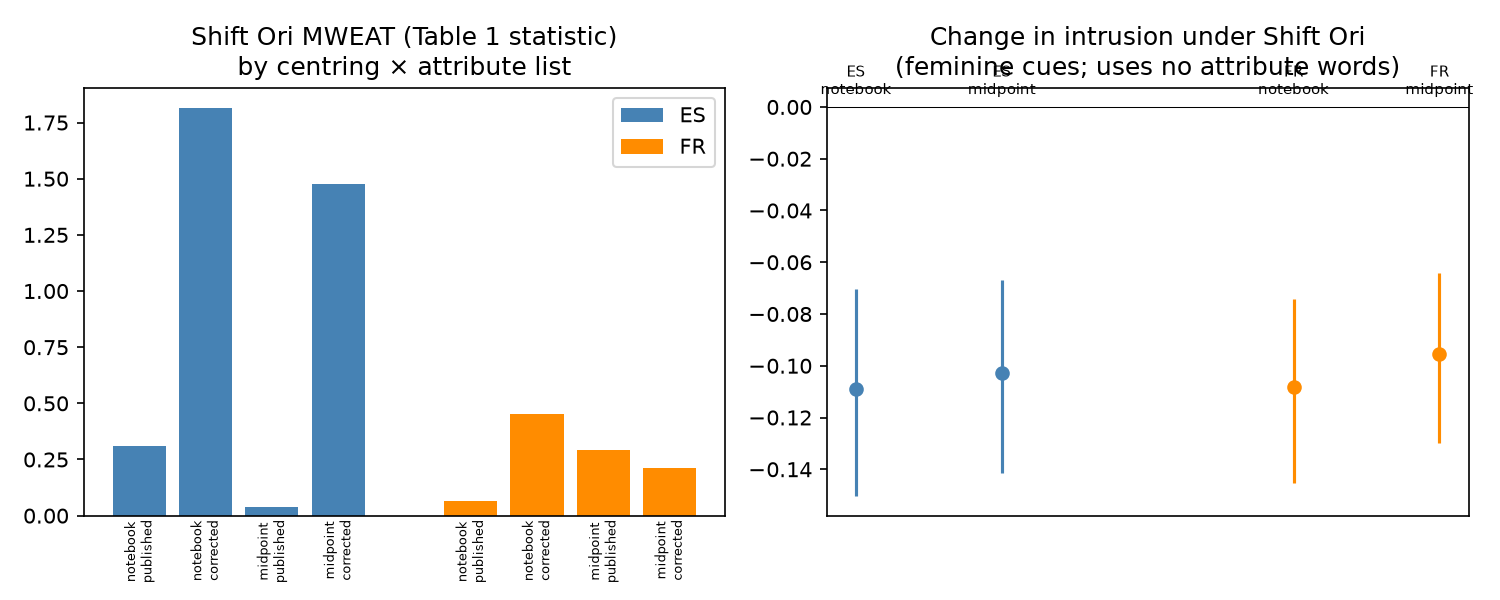
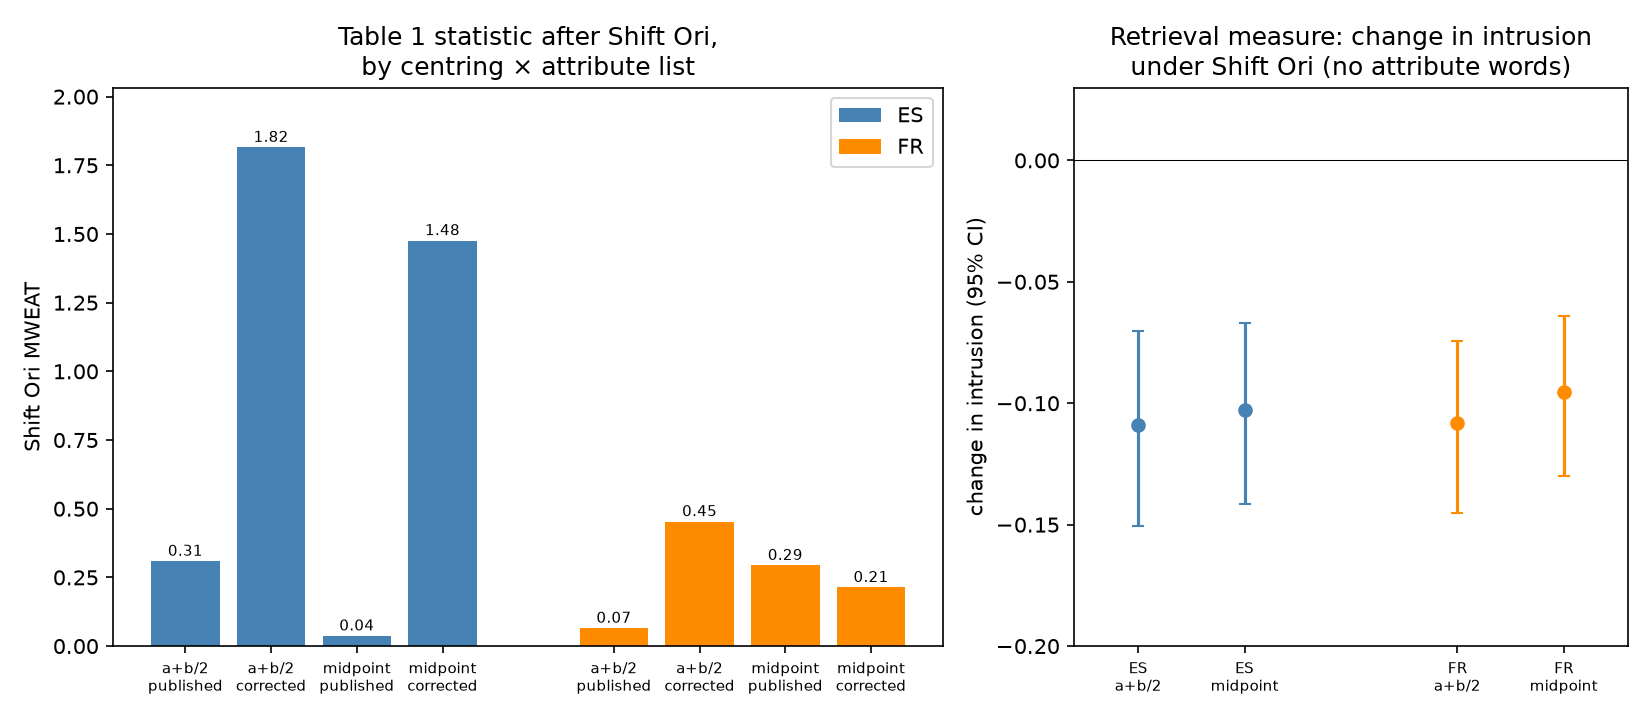
F3: fix label clipping (tick labels, value labels, axis limits)

diff --git a/embeddings/scripts/paperA_figures.py b/embeddings/scripts/paperA_figures.py
@@ -116,24 +116,37 @@ def main():
         return g[(g["set"] == "primary") & (g.measure == "intrusion")].set_index(["lang", "space"])
 
     G = {"notebook": gaps(ROOT / "results/wordpair_cues/gaps.csv"), "midpoint": gaps(ROOT / "results/wordpair_cues_midpoint/gaps.csv")}
-    fig3, ax3 = plt.subplots(1, 2, figsize=(10, 4))
+    fig3, ax3 = plt.subplots(1, 2, figsize=(11, 4.8), gridspec_kw={"width_ratios": [3, 2]})
+    xt, xl = [], []
     for li, lang in enumerate(("es", "fr")):
+        col = "steelblue" if lang == "es" else "darkorange"
         sub = d3[d3.lang == lang]
-        lab = [f"{r.centring}\n{r.attributes}" for r in sub.itertuples()]
-        ax3[0].bar(np.arange(4) + 5 * li, sub.shift_ori_mweat, color="steelblue" if lang == "es" else "darkorange", label=lang.upper())
-        for i, t in enumerate(lab):
-            ax3[0].text(i + 5 * li, -0.02, t, ha="center", va="top", fontsize=6, rotation=90)
+        xs = np.arange(4) + 5 * li
+        ax3[0].bar(xs, sub.shift_ori_mweat, color=col, label=lang.upper())
+        for x, v in zip(xs, sub.shift_ori_mweat):
+            ax3[0].text(x, v + 0.02, f"{v:.2f}", ha="center", fontsize=7)
+        xt += list(xs)
+        xl += [f"{'a+b/2' if r.centring == 'notebook' else 'midpoint'}\n{r.attributes}" for r in sub.itertuples()]
+    ax3[0].set_xticks(xt, xl, fontsize=7)
+    ax3[0].set_ylim(0, d3.shift_ori_mweat.max() * 1.12)
+    ax3[0].set_ylabel("Shift Ori MWEAT")
+    ax3[0].set_title("Table 1 statistic after Shift Ori,\nby centring × attribute list")
+    ax3[0].legend(loc="upper right")
+    xt, xl = [], []
+    for li, lang in enumerate(("es", "fr")):
+        col = "steelblue" if lang == "es" else "darkorange"
         for ci, c in enumerate(("notebook", "midpoint")):
             r = G[c].loc[(lang, "shift_ori-original")]
-            ax3[1].errorbar(ci + 3 * li, r.value, yerr=[[r.value - r.lo], [r.hi - r.value]], fmt="o",
-                            color="steelblue" if lang == "es" else "darkorange")  # fmt: skip
-            ax3[1].text(ci + 3 * li, 0.005, f"{lang.upper()}\n{c}", ha="center", fontsize=7)
-    ax3[0].set_title("Shift Ori MWEAT (Table 1 statistic)\nby centring × attribute list")
-    ax3[0].set_xticks([])
-    ax3[0].legend()
+            x = ci + 3 * li
+            ax3[1].errorbar(x, r.value, yerr=[[r.value - r.lo], [r.hi - r.value]], fmt="o", color=col, capsize=3)
+            xt.append(x)
+            xl.append(f"{lang.upper()}\n{'a+b/2' if c == 'notebook' else 'midpoint'}")
     ax3[1].axhline(0, color="k", lw=0.5)
-    ax3[1].set_xticks([])
-    ax3[1].set_title("Change in intrusion under Shift Ori\n(feminine cues; uses no attribute words)")
+    ax3[1].set_xticks(xt, xl, fontsize=7)
+    ax3[1].set_xlim(-0.6, 4.6)
+    ax3[1].set_ylim(-0.2, 0.03)
+    ax3[1].set_ylabel("change in intrusion (95% CI)")
+    ax3[1].set_title("Retrieval measure: change in intrusion\nunder Shift Ori (no attribute words)")
     fig3.tight_layout()
     fig3.savefig(OUT / "F3_same_choices_two_measures.png", dpi=150)
     # F4: both centrings side by side (released code = notebook a + b/2; as described = midpoint)
